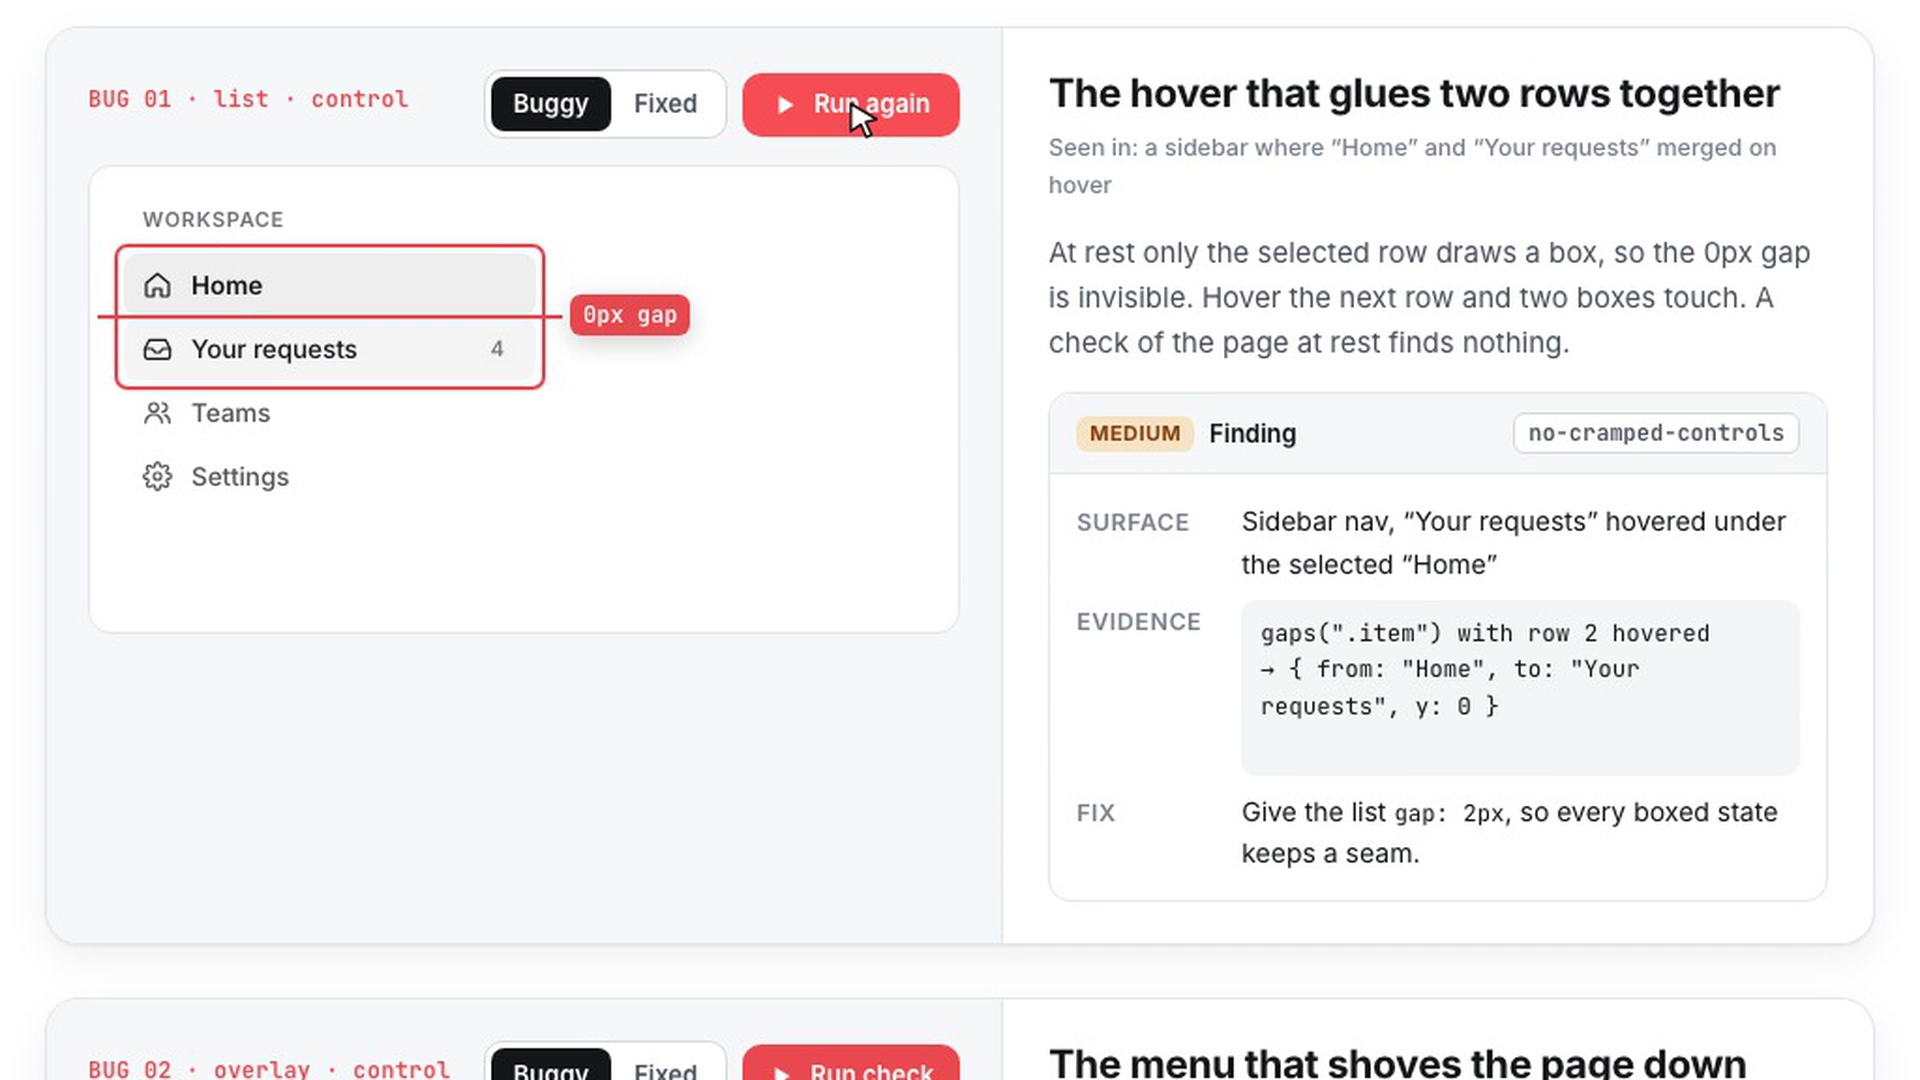
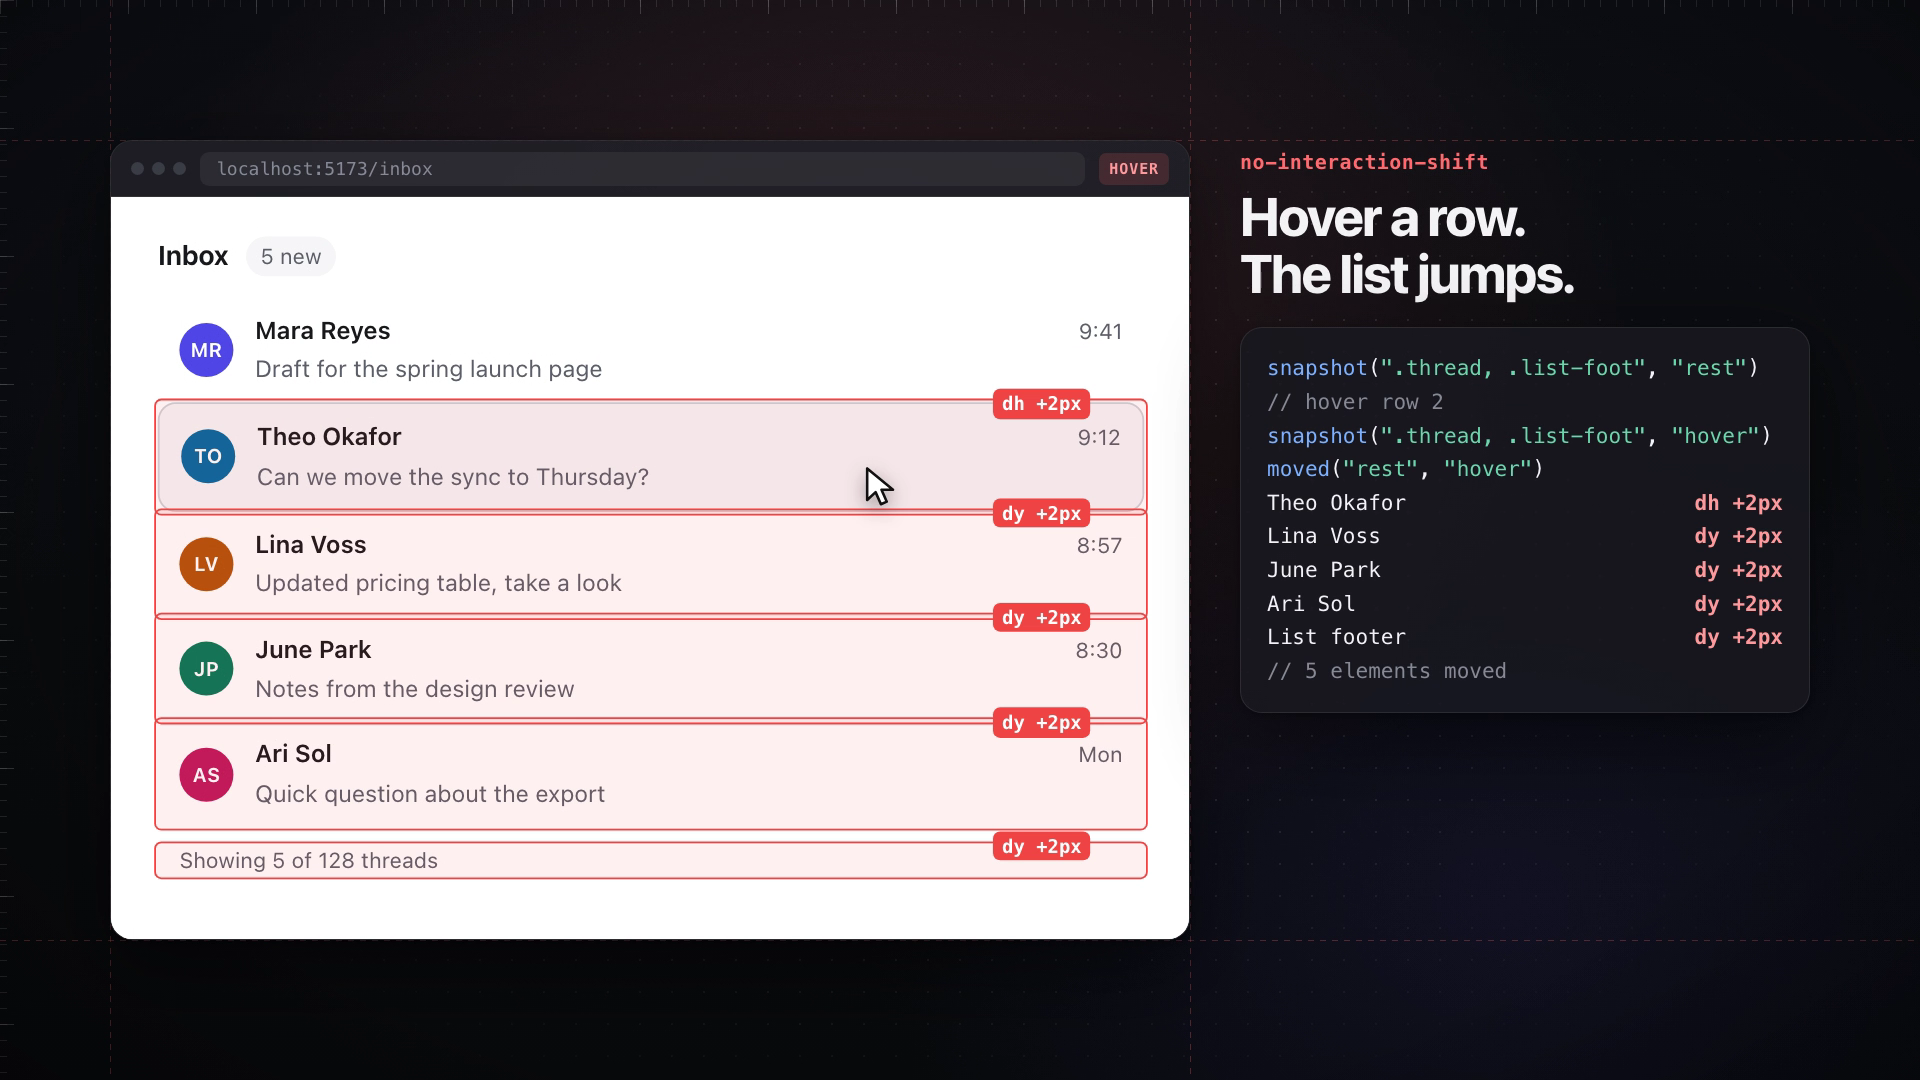
Point the README at the new promo and demo site

diff --git a/README.md b/README.md
@@ -6,11 +6,11 @@ common UX defects. It reads the code and, when a dev server or a static page and
 available, measures the live page at rest, on hover and on keyboard focus. Each finding has a
 surface, a rule, measured evidence and a fix.
 
-[![Watch the 42-second promo](docs/poster.png)](https://ktmud.github.io/ux-quality-check-skill/tour.mp4)
+[![Watch the 53-second promo](docs/poster.png)](https://ktmud.github.io/ux-quality-check-skill/tour.mp4)
 
 ▶ [Watch the promo](https://ktmud.github.io/ux-quality-check-skill/tour.mp4) ·
-[Try the live demo](https://ktmud.github.io/ux-quality-check-skill/): ten real-world bugs, each a
-mini-app you can measure, break and fix in the browser.
+[Try the live demo](https://ktmud.github.io/ux-quality-check-skill/): a bug lab where you ship
+real UX bugs into a page and watch the skill measure them.
 
 ## Install
 
